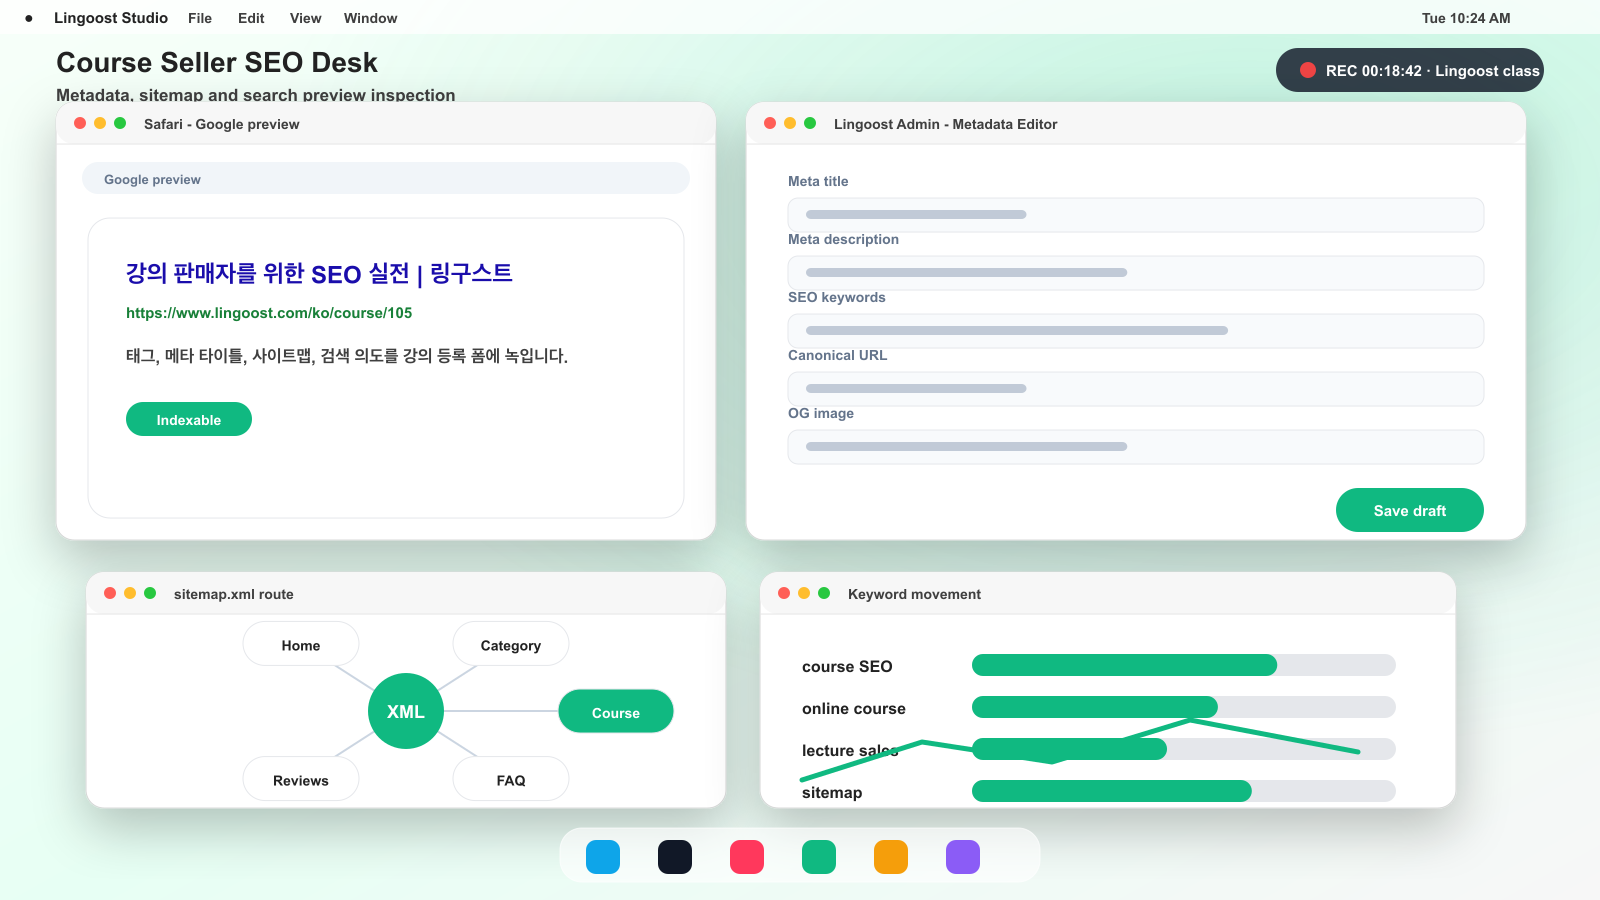
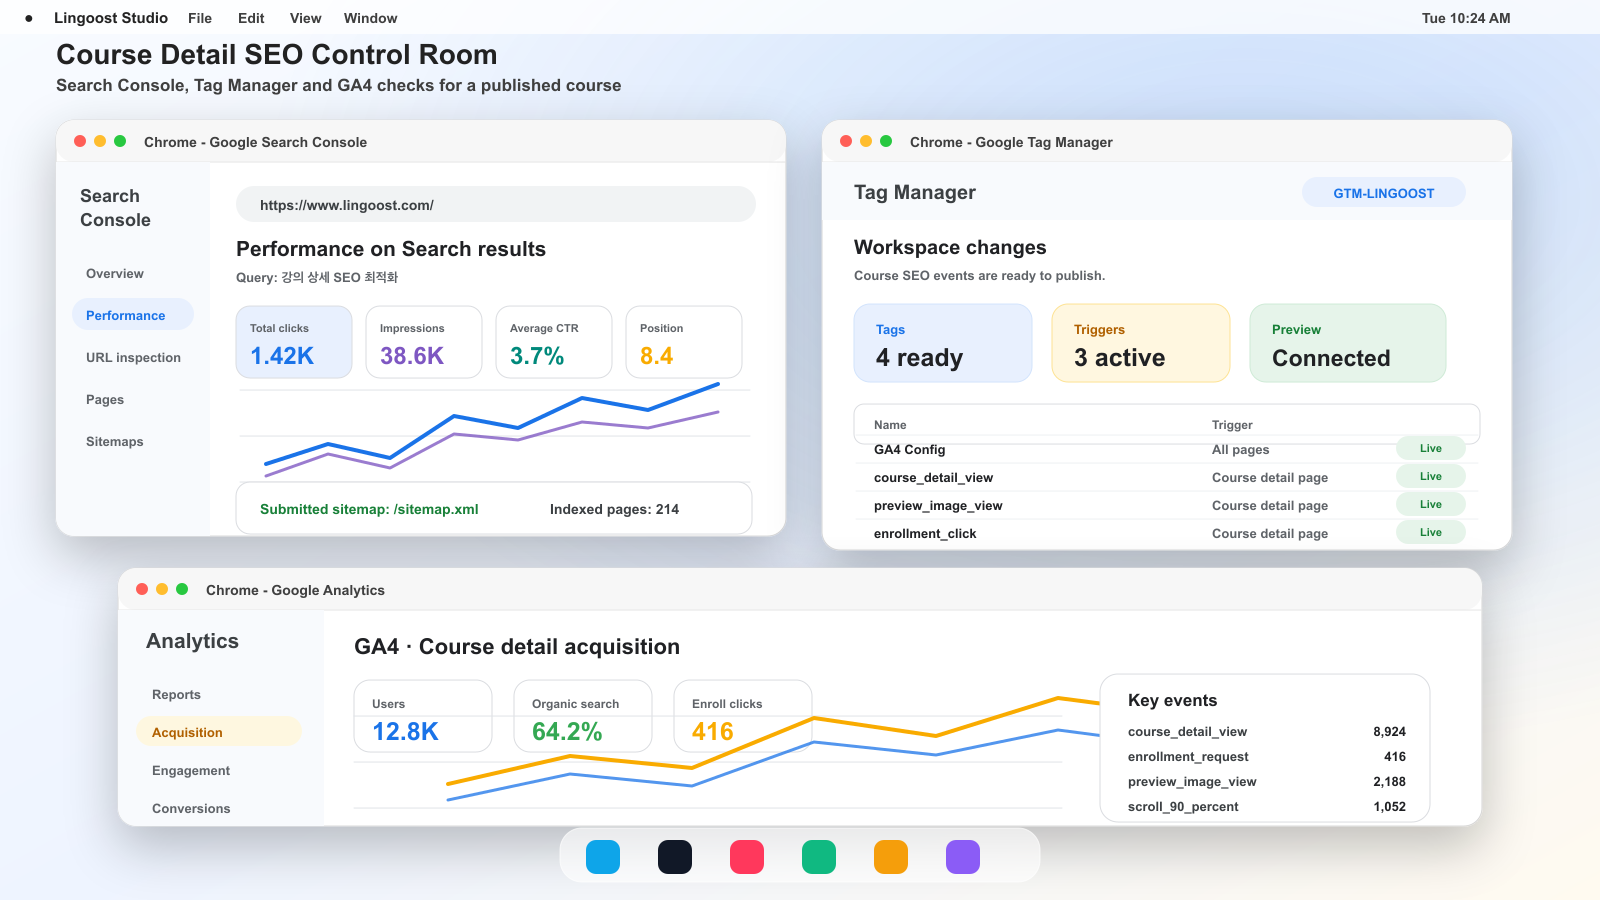
Refine course 105 SEO detail scene

diff --git a/src/lib/course-detail-scenes.ts b/src/lib/course-detail-scenes.ts
@@ -33,8 +33,8 @@ const courseDetailScenes: Record<number, CourseDetailScene> = {
   105: {
     title: "강의 상세 SEO 최적화 화면",
     imageUrl: "/course-detail-scenes/course-105-workshop.png",
-    alt: "Course SEO screen with metadata editor, sitemap diagram, keyword clusters, and search preview cards",
-    caption: "메타데이터, 태그, 사이트맵, 검색 결과 미리보기를 점검하며 강의 상세 페이지의 노출 가능성을 높입니다.",
+    alt: "Course SEO operations screen with Google Search Console, Google Tag Manager, and Google Analytics dashboards",
+    caption: "Google Search Console의 검색 노출과 색인 상태, Google Tag Manager의 강의 상세 이벤트 태그, GA4의 유입과 전환 지표를 함께 보며 강의 상세 페이지의 SEO 성과를 점검합니다.",
   },
   106: {
     title: "AI 더빙과 다국어 QA 화면",
